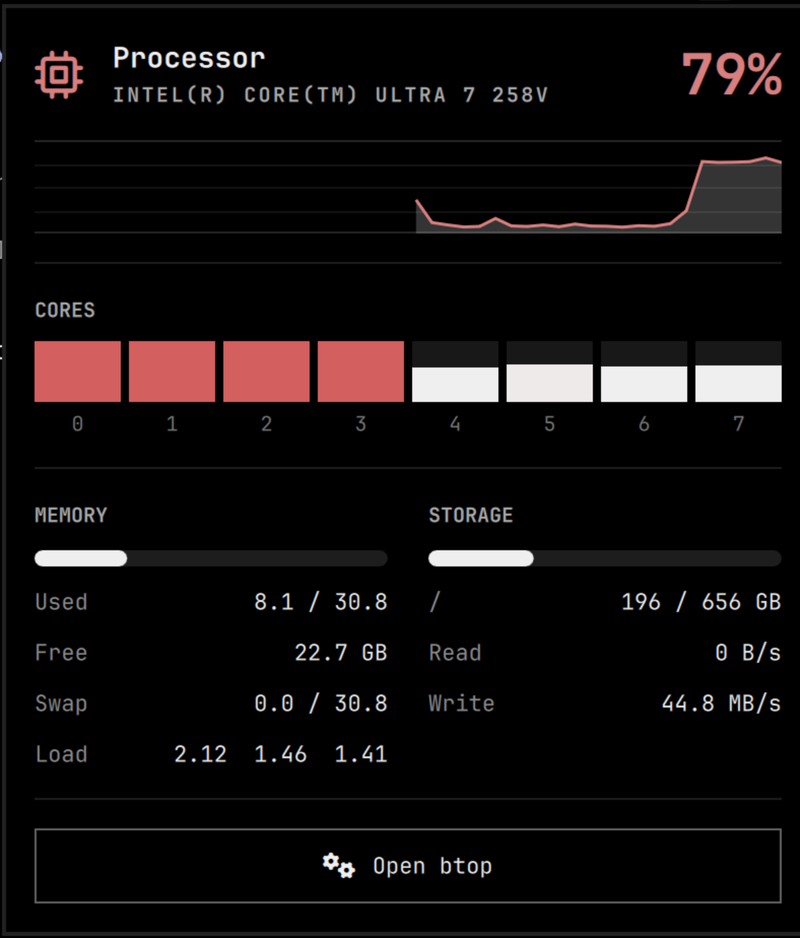
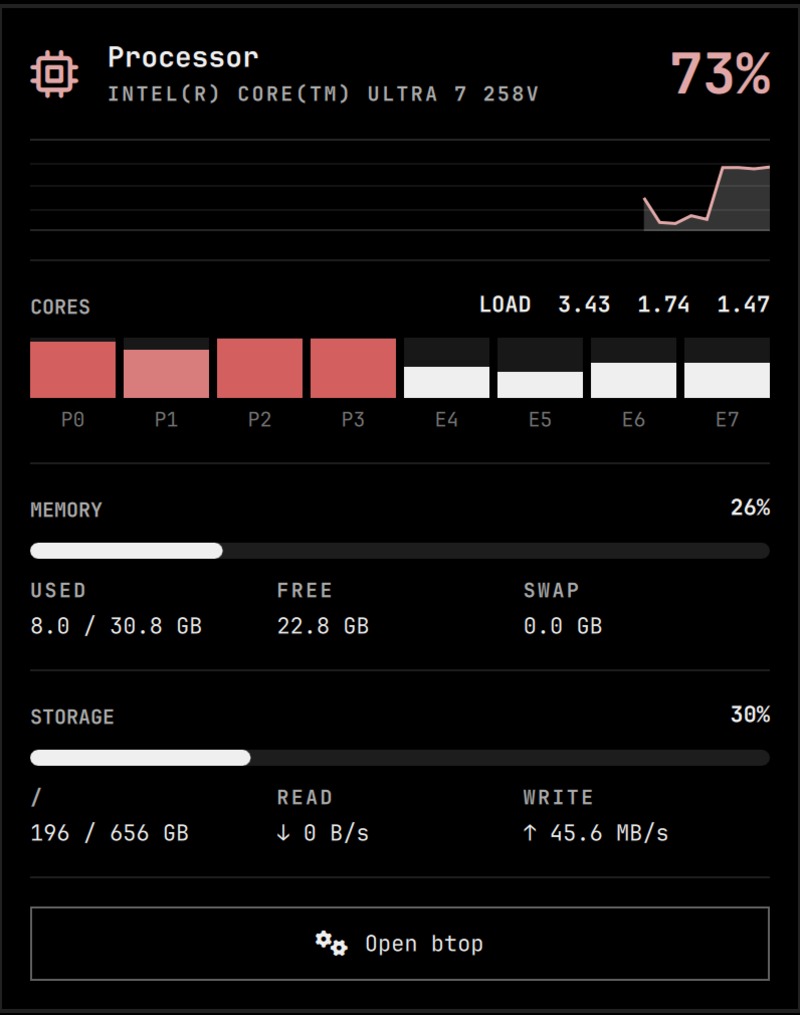
Redesign stat blocks, scale the core grid, label P/E cores
Figures under each bar are equal-width cells with a dim small-caps label
over the value, rather than a right-aligned key/value list that left most
of the width empty. The headline percentage sits on the trailing edge of
the section header and takes the same load colour as its bar.

The core grid wraps past eight and balances the rows: 12 cores go 6+6
rather than 8+4, 24 go 8+8+8, and blocks shorten once wrapped.

Hybrid Intel cores are labelled P0/E4 from the cpu_core and cpu_atom PMU
sysfs paths. Uniform CPUs and AMD keep plain numbering.

Changed region(s): [[0.0, 0.0, 1.0, 1.0]]

diff --git a/Panel.qml b/Panel.qml
@@ -51,6 +51,54 @@ Panel {
   property var prevCoreTotal: ({})
   property var coreLoads: []
 
+  // Hybrid Intel exposes its two core classes as separate PMUs under
+  // /sys/devices/cpu_core and /sys/devices/cpu_atom (Alder Lake and later).
+  // Absent on uniform CPUs and on AMD, where every core is just numbered.
+  property var pCoreSet: ({})
+  property var eCoreSet: ({})
+  // Raw sysfs strings, kept so the sets are only rebuilt when they actually
+  // change. Assigning a var property always emits its change signal, even
+  // for an identical object, which would re-evaluate every core label on
+  // every tick for data that never moves.
+  property string pCoreSpec: ""
+  property string eCoreSpec: ""
+  readonly property bool hybridCpu: Object.keys(pCoreSet).length > 0 && Object.keys(eCoreSet).length > 0
+
+  // Wrap past eight, then balance: 12 cores go 6+6 rather than 8+4, and 24
+  // go 8+8+8. Keeps the last row from looking like a stub.
+  readonly property int coreRows: Math.max(1, Math.ceil(coreLoads.length / 8))
+  readonly property int coreColumns: coreLoads.length > 0
+    ? Math.ceil(coreLoads.length / coreRows)
+    : 1
+
+  function coreLabel(index) {
+    if (root.pCoreSet[index]) return "P" + index
+    if (root.eCoreSet[index]) return "E" + index
+    return String(index)
+  }
+
+  // "0-3", "0-3,8-11" or "2" -> a set of cpu indices.
+  function parseCpuList(spec) {
+    var out = {}
+    var text = String(spec || "").replace(/^\s+|\s+$/g, "")
+    if (text === "") return out
+
+    var parts = text.split(",")
+    for (var i = 0; i < parts.length; i++) {
+      var part = parts[i]
+      var dash = part.indexOf("-")
+      if (dash > 0) {
+        var lo = parseInt(part.substr(0, dash), 10)
+        var hi = parseInt(part.substr(dash + 1), 10)
+        if (isFinite(lo) && isFinite(hi)) for (var n = lo; n <= hi; n++) out[n] = true
+      } else {
+        var single = parseInt(part, 10)
+        if (isFinite(single)) out[single] = true
+      }
+    }
+    return out
+  }
+
   // Memory.
   property real memFraction: 0
   property real memUsedGb: 0
@@ -192,6 +240,18 @@ Panel {
         nextSectorsWritten = parseFloat(io[2])
       } else if (line.indexOf("uptime ") === 0) {
         nextUptime = parseFloat(line.split(/\s+/)[1])
+      } else if (line.indexOf("pcores ") === 0) {
+        var pspec = line.substr(7)
+        if (pspec !== root.pCoreSpec) {
+          root.pCoreSpec = pspec
+          root.pCoreSet = root.parseCpuList(pspec)
+        }
+      } else if (line.indexOf("ecores ") === 0) {
+        var espec = line.substr(7)
+        if (espec !== root.eCoreSpec) {
+          root.eCoreSpec = espec
+          root.eCoreSet = root.parseCpuList(espec)
+        }
       }
     }
 
@@ -249,7 +309,9 @@ Panel {
       "echo \"uptime $(cut -d' ' -f1 /proc/uptime)\"; " +
       "echo \"disk $(df -B1 --output=size,used " + Util.shellQuote(root.diskMount) + " | tail -1)\"; " +
       "awk '$3 ~ /^(nvme[0-9]+n[0-9]+|sd[a-z]+|mmcblk[0-9]+|vd[a-z]+)$/ {r+=$6; w+=$10} END {print \"dio\", r+0, w+0}' /proc/diskstats; " +
-      "echo \"model $(grep -m1 'model name' /proc/cpuinfo | cut -d: -f2-)\""]
+      "echo \"model $(grep -m1 'model name' /proc/cpuinfo | cut -d: -f2-)\"; " +
+      "echo \"pcores $(cat /sys/devices/cpu_core/cpus 2>/dev/null)\"; " +
+      "echo \"ecores $(cat /sys/devices/cpu_atom/cpus 2>/dev/null)\""]
     stdout: StdioCollector {
       id: collector
       waitForEnd: true
@@ -447,20 +509,27 @@ Panel {
           spacing: Style.space(8)
           visible: root.coreLoads.length > 0
 
-          PanelSectionHeader {
-            text: "CORES"
-            foreground: root.bar.foreground
-            fontFamily: root.bar.fontFamily
+          // Load average rides on the CORES header rather than sitting among
+          // the memory figures: it is a CPU number, and the right half of a
+          // section header is otherwise dead space.
+          SectionHead {
+            title: "CORES"
+            value: root.loadAverage !== "" ? "LOAD  " + root.loadAverage : ""
           }
 
-          Row {
-            id: coreRow
+          Grid {
+            id: coreGrid
             width: parent.width
-            spacing: Style.space(4)
+            columns: root.coreColumns
+            columnSpacing: Style.space(4)
+            rowSpacing: Style.space(6)
 
-            readonly property real cellWidth: root.coreLoads.length > 0
-              ? (width - spacing * (root.coreLoads.length - 1)) / root.coreLoads.length
+            readonly property real cellWidth: columns > 0
+              ? (width - columnSpacing * (columns - 1)) / columns
               : 0
+            // Shorter blocks once the grid wraps, so a 24-core machine does
+            // not push the rest of the panel off the bottom of the screen.
+            readonly property real blockHeight: root.coreRows > 1 ? Style.space(20) : Style.space(30)
 
             Repeater {
               model: root.coreLoads
@@ -468,14 +537,14 @@ Panel {
               Column {
                 required property var modelData
                 required property int index
-                width: coreRow.cellWidth
+                width: coreGrid.cellWidth
                 spacing: Style.space(4)
 
-                // Full-width blocks rather than slim pills: at eight cores
-                // the wide cells read as a row of gauges you can scan across.
+                // Full-width blocks rather than slim pills: the wide cells
+                // read as a row of gauges you can scan across.
                 Item {
                   width: parent.width
-                  height: Style.space(30)
+                  height: coreGrid.blockHeight
 
                   Rectangle {
                     anchors.fill: parent
@@ -499,7 +568,7 @@ Panel {
                 Text {
                   width: parent.width
                   horizontalAlignment: Text.AlignHCenter
-                  text: String(index)
+                  text: root.coreLabel(index)
                   color: root.bar.foreground
                   opacity: 0.5
                   font.family: root.bar.fontFamily
@@ -512,58 +581,55 @@ Panel {
 
         PanelSeparator { foreground: root.bar.foreground }
 
-        // ---------- Memory and storage, side by side ----------
-        // Two columns rather than two stacked sections. These are eight short
-        // label/value pairs; stacked, they made the panel taller than the
-        // information in it justified.
-        Row {
-          id: statsRow
+        // ---------- Memory ----------
+        // Headline percentage on the header line, the bar full width beneath
+        // it, and the supporting figures spread across the row rather than
+        // stacked as a label/value table — three short facts do not need
+        // three lines, and the table left most of the width empty.
+        Column {
           width: parent.width
-          spacing: Style.space(20)
+          spacing: Style.space(9)
 
-          readonly property real columnWidth: (width - spacing) / 2
-
-          Column {
-            width: statsRow.columnWidth
-            spacing: Style.space(10)
-
-            PanelSectionHeader {
-              text: "MEMORY"
-              foreground: root.bar.foreground
-              fontFamily: root.bar.fontFamily
-            }
-
-            UsageBar { fraction: root.memFraction }
-
-            InfoPair { label: "Used"; value: root.memUsedGb.toFixed(1) + " / " + root.memTotalGb.toFixed(1) }
-            InfoPair { label: "Free"; value: root.memAvailableGb.toFixed(1) + " GB" }
-            InfoPair {
-              label: "Swap"
-              value: root.swapTotalGb > 0
-                ? root.swapUsedGb.toFixed(1) + " / " + root.swapTotalGb.toFixed(1)
-                : "none"
-            }
-            InfoPair { label: "Load"; value: root.loadAverage !== "" ? root.loadAverage : "—" }
+          SectionHead {
+            title: "MEMORY"
+            value: Math.round(root.memFraction * 100) + "%"
+            valueColor: root.loadColor(root.memFraction)
           }
 
-          Column {
-            width: statsRow.columnWidth
-            spacing: Style.space(10)
+          UsageBar { fraction: root.memFraction }
 
-            PanelSectionHeader {
-              text: "STORAGE"
-              foreground: root.bar.foreground
-              fontFamily: root.bar.fontFamily
+          StatRow {
+            Stat { label: "USED"; value: root.memUsedGb.toFixed(1) + " / " + root.memTotalGb.toFixed(1) + " GB" }
+            Stat { label: "FREE"; value: root.memAvailableGb.toFixed(1) + " GB" }
+            Stat {
+              label: "SWAP"
+              value: root.swapTotalGb > 0 ? root.swapUsedGb.toFixed(1) + " GB" : "none"
             }
+          }
+        }
 
-            UsageBar { fraction: root.diskFraction }
+        PanelSeparator { foreground: root.bar.foreground }
 
-            InfoPair {
-              label: root.diskMount
+        // ---------- Storage ----------
+        Column {
+          width: parent.width
+          spacing: Style.space(9)
+
+          SectionHead {
+            title: "STORAGE"
+            value: Math.round(root.diskFraction * 100) + "%"
+            valueColor: root.loadColor(root.diskFraction)
+          }
+
+          UsageBar { fraction: root.diskFraction }
+
+          StatRow {
+            Stat {
+              label: root.diskMount.toUpperCase()
               value: root.diskUsedGb.toFixed(0) + " / " + root.diskTotalGb.toFixed(0) + " GB"
             }
-            InfoPair { label: "Read"; value: root.rateText(root.readBytesPerSec) }
-            InfoPair { label: "Write"; value: root.rateText(root.writeBytesPerSec) }
+            Stat { label: "READ";  value: "↓ " + root.rateText(root.readBytesPerSec) }
+            Stat { label: "WRITE"; value: "↑ " + root.rateText(root.writeBytesPerSec) }
           }
         }
 
@@ -613,28 +679,92 @@ Panel {
     }
   }
 
-  component InfoPair: Row {
+  // Section header with a headline figure on the trailing edge. Reuses
+  // PanelSectionHeader for the label so the small-caps treatment matches
+  // every other panel in the shell.
+  component SectionHead: Item {
+    property string title: ""
+    property string value: ""
+    property color valueColor: root.bar.foreground
+
+    width: parent ? parent.width : 0
+    implicitHeight: Math.max(headLabel.implicitHeight, headValue.implicitHeight)
+
+    PanelSectionHeader {
+      id: headLabel
+      text: parent.title
+      anchors.left: parent.left
+      anchors.verticalCenter: parent.verticalCenter
+      foreground: root.bar.foreground
+      fontFamily: root.bar.fontFamily
+    }
+
+    Text {
+      id: headValue
+      text: parent.value
+      visible: text !== ""
+      anchors.right: parent.right
+      anchors.verticalCenter: parent.verticalCenter
+      color: parent.valueColor
+      font.family: root.bar.fontFamily
+      font.pixelSize: Style.font.bodySmall
+      font.bold: true
+
+      Behavior on color { ColorAnimation { duration: 240 } }
+    }
+  }
+
+  // Equal-width cells across the full panel width. Reading down a column of
+  // labels beats reading across a sparse two-column table, and it fills the
+  // space a right-aligned value list wasted.
+  // An Item rather than a Row: the cells are placed by hand so they divide
+  // the panel evenly, and Row derives implicitHeight from its children,
+  // making it read-only.
+  component StatRow: Item {
+    width: parent ? parent.width : 0
+    implicitHeight: childrenRect.height
+
+    onWidthChanged: layoutCells()
+    onChildrenChanged: layoutCells()
+    Component.onCompleted: layoutCells()
+
+    function layoutCells() {
+      var cells = children
+      if (cells.length === 0 || width <= 0) return
+      var cellWidth = width / cells.length
+      for (var i = 0; i < cells.length; i++) {
+        cells[i].x = i * cellWidth
+        cells[i].y = 0
+        cells[i].width = cellWidth
+      }
+    }
+  }
+
+  // One figure: a dim small-caps label over its value.
+  component Stat: Column {
     property string label: ""
     property string value: ""
 
-    width: parent.width
-    spacing: Style.space(8)
+    spacing: Style.space(3)
 
-    InfoLabel { text: label }
-    Item { width: Math.max(0, parent.width - parent.children[0].implicitWidth - parent.children[2].implicitWidth - parent.spacing * 2); height: 1 }
-    InfoValue { text: value }
-  }
+    Text {
+      text: parent.label
+      color: Qt.darker(root.bar.foreground, 1.4)
+      font.family: root.bar.fontFamily
+      font.pixelSize: Style.font.caption
+      font.bold: true
+      font.letterSpacing: 1.2
+      elide: Text.ElideRight
+      width: parent.width
+    }
 
-  component InfoLabel: Text {
-    color: root.bar.foreground
-    opacity: 0.6
-    font.family: root.bar.fontFamily
-    font.pixelSize: Style.font.bodySmall
-  }
-
-  component InfoValue: Text {
-    color: root.bar.foreground
-    font.family: root.bar.fontFamily
-    font.pixelSize: Style.font.bodySmall
+    Text {
+      text: parent.value
+      color: root.bar.foreground
+      font.family: root.bar.fontFamily
+      font.pixelSize: Style.font.bodySmall
+      elide: Text.ElideRight
+      width: parent.width
+    }
   }
 }

diff --git a/README.md b/README.md
@@ -25,10 +25,19 @@ glanceable indicator, not a linear readout; the panel carries exact numbers.
 ## In the panel
 
 - Current load, CPU model, and a rolling average-CPU graph of the last 48 samples
-- Per-core activity
-- Memory: used, free, swap, load average
+- Per-core activity, with load average on the same line
+- Memory: used, free and swap
 - Storage: usage for a chosen mount, plus live read/write throughput
 - A button through to `btop`
+
+The core grid wraps past eight and balances rather than filling rows, so 12
+cores go 6+6 rather than 8+4 and 24 go 8+8+8; blocks shorten once it wraps so a
+large machine does not push the panel off screen.
+
+On hybrid Intel chips the cores are labelled `P0`/`E4` instead of by bare index,
+read from `/sys/devices/cpu_core/cpus` and `/sys/devices/cpu_atom/cpus` — the
+separate-PMU interface Alder Lake and later expose. Uniform CPUs and AMD have
+neither path and keep plain numbering.
 
 Click the bar widget to open it. It registers as a normal bar panel, so
 `SUPER + CTRL + <n>` opens it by position and Tab moves between it and the
